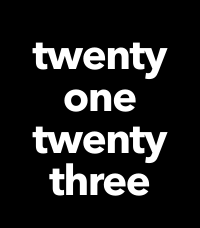
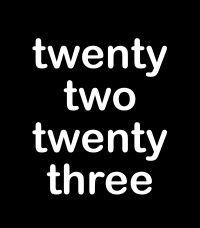
Release v0.2.7 with 22:23 watchface screenshot

Changed region(s): [[0.15, 0.5219, 0.84, 0.8596], [0.15, 0.1535, 0.84, 0.3684], [0.3, 0.3377, 0.69, 0.4912]]

diff --git a/tests/release-metadata.test.js b/tests/release-metadata.test.js
@@ -26,7 +26,7 @@ function withReleaseFixture(packageJson, changelog, callback) {
 test("current package version has release notes", () => {
   const metadata = readReleaseMetadata(__dirname + "/..");
 
-  assert.equal(metadata.version, "0.2.6");
+  assert.equal(metadata.version, "0.2.7");
   assert.equal(metadata.tag, `v${metadata.version}`);
   assert.ok(metadata.notes.trim().length > 0);
 });

diff --git a/CHANGELOG.md b/CHANGELOG.md
@@ -2,6 +2,11 @@
 
 All published versions are tracked here and as GitHub Releases.
 
+## [0.2.7] - 2026-08-02
+
+- Update the default Emery app-store screenshot to show `22:23` in the large
+  white-on-black word-time layout.
+
 ## [0.2.6] - 2026-08-01
 
 - Split only `seventeen` at Large font size, leaving fitting teen words whole
